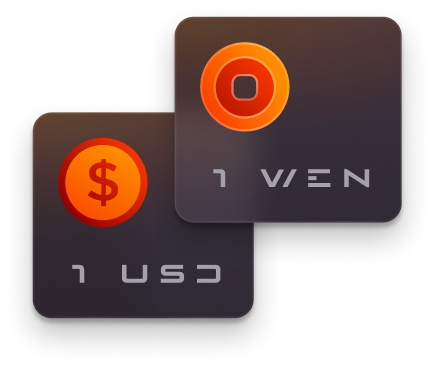
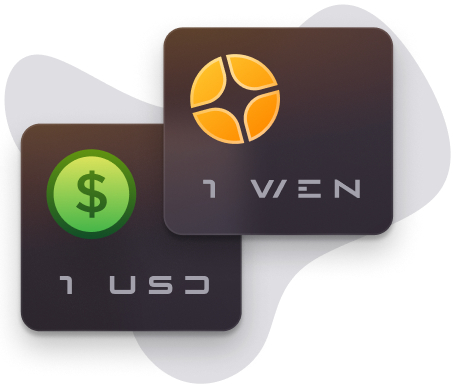
replace the illustration on the home page.

diff --git a/src/index.scss b/src/index.scss
@@ -521,7 +521,7 @@ h4 {
     max-width: 400px;
 
     .illustration {
-      width: 200px;
+      width: 247px;
     }
   }
 }
